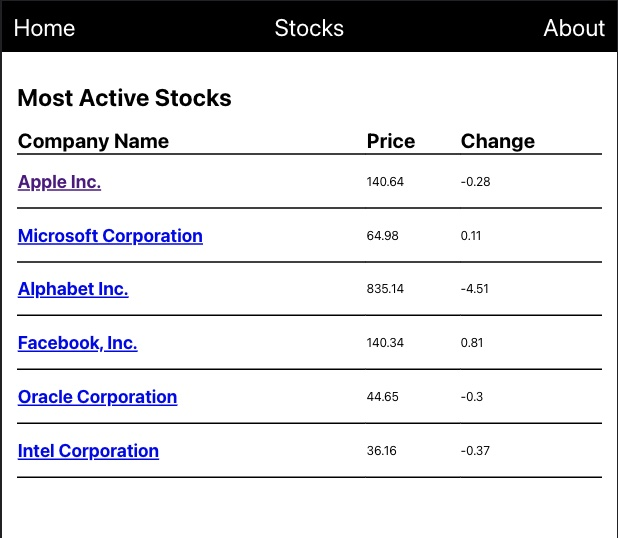
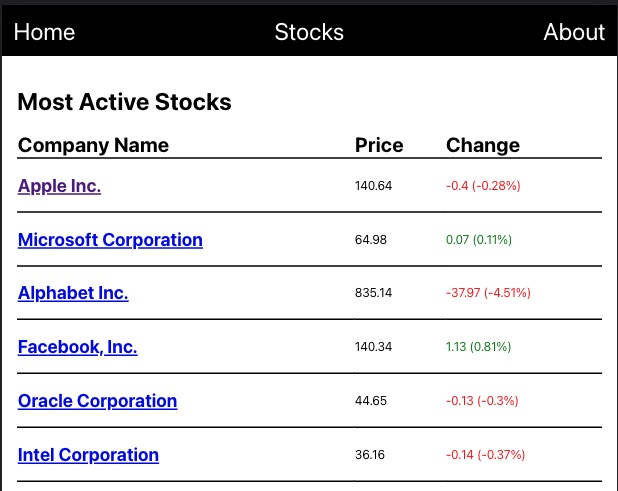
stock price change css colors, readme

diff --git a/src/pages/Dashboard.js b/src/pages/Dashboard.js
@@ -2,12 +2,23 @@ import { Link } from "react-router-dom";
 
 export default function Stocks(props) {
 
-  // function stockChange(){
-  //   return(
-  //     <>
-  //     </>
-  //   )
-  // }
+  function stockChange(stock) {
+    let change = Math.round(stock.change * 100) / 100;
+    if (change < 0) {
+      return (
+        <td class="red">
+          {Math.round(change*stock.open)/100 + ' ('+ change +'%)'}
+        </td>
+      )
+    }
+    else if (change>0){
+      return (
+        <td className='green'>
+          {Math.round(change*stock.open)/100 + ' ('+ change +'%)'}
+        </td>
+      )
+    }
+  }
 
   return (
     <main className="dashboard">
@@ -26,7 +37,8 @@ export default function Stocks(props) {
               <tr key={idx}>
                 <td><Link to={`/stocks/${stock.symbol}`} ><h2>{stock.name}</h2></Link></td>
                 <td>{stock.lastPrice}</td>
-                <td>{Math.round(stock.change * 100) / 100}</td>
+                {/* <td>{Math.round(stock.change * 100) / 100}</td> */}
+                {stockChange(stock)}
               </tr>
             );
           })}

diff --git a/src/index.css b/src/index.css
@@ -64,3 +64,10 @@ th{
 }
 
 
+.green {
+  color: green;
+}
+
+.red {
+  color: red;
+}
